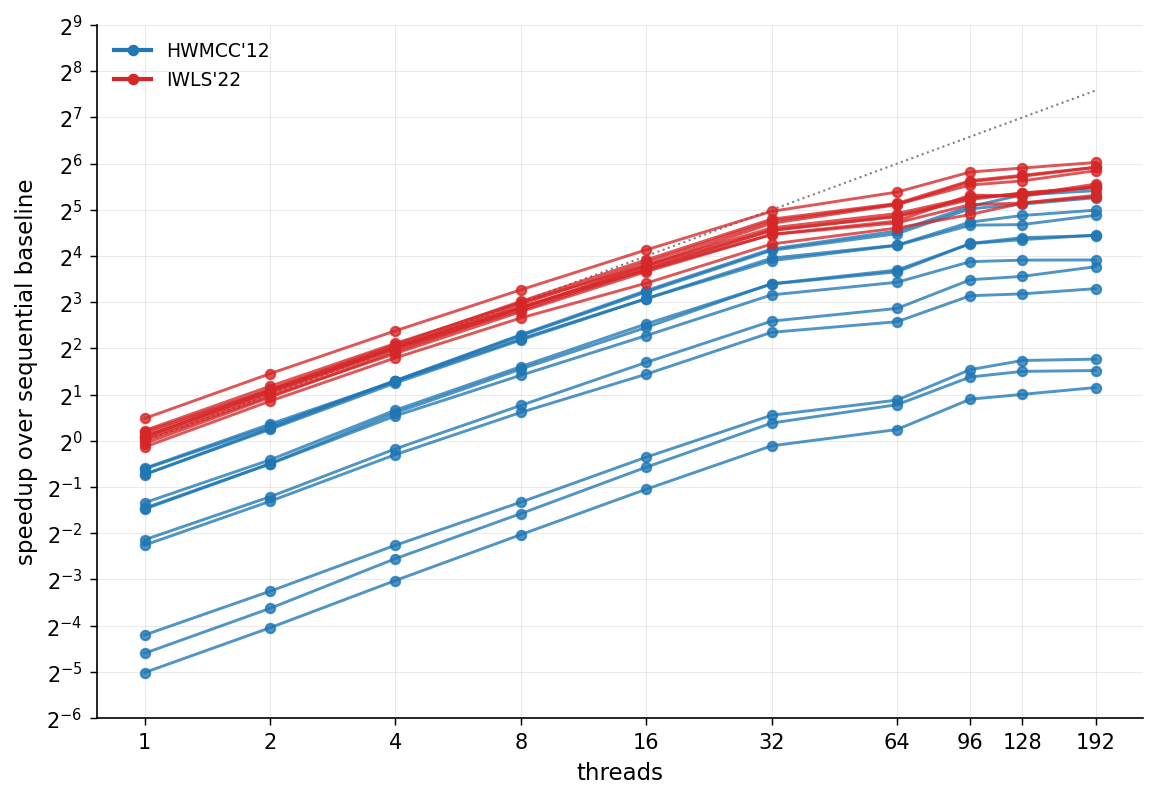
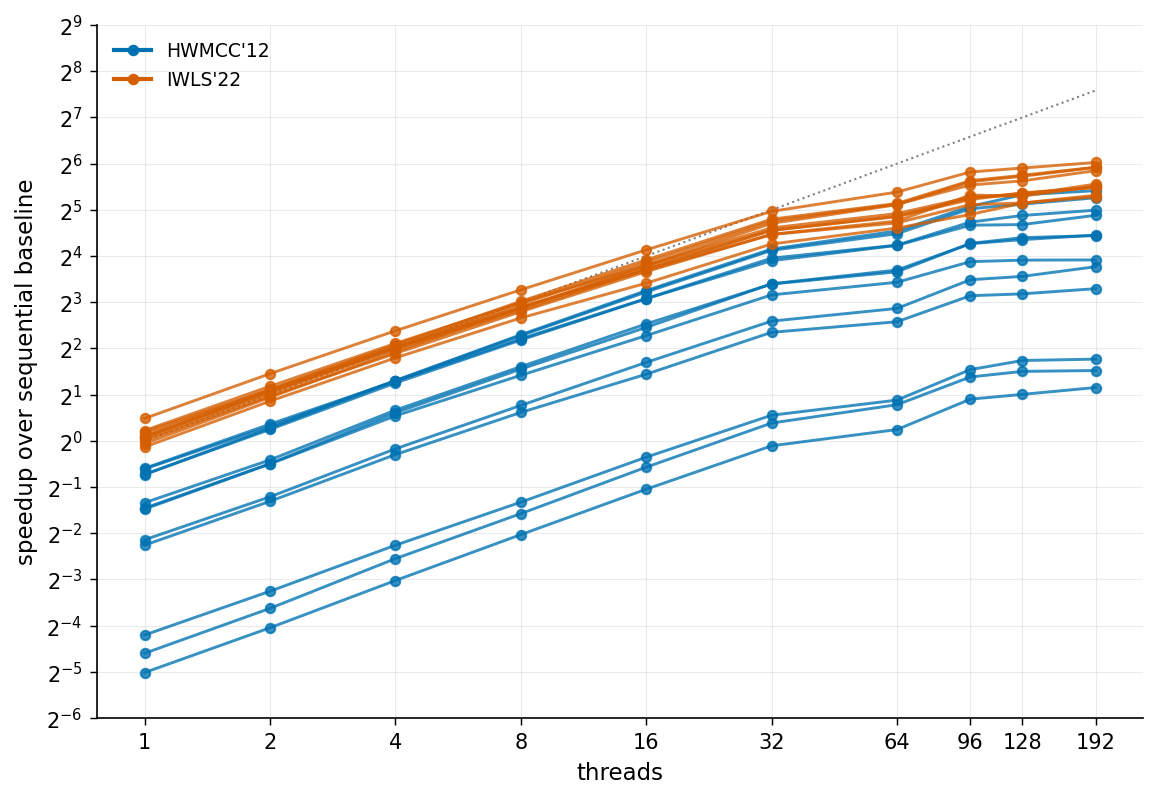
new figs

diff --git a/sections/5-evaluation.tex b/sections/5-evaluation.tex
@@ -358,7 +358,7 @@ paper~\cite{clausal-cc}.
 
 \begin{figure}[H]
   \centering
-  \includegraphics[width=\linewidth]{figs_old/gates_speedup_vs_min_dirty_fraction.png}
+  \includegraphics[width=\linewidth]{figs/gates_async_speedup_vs_dirty_fraction.png}
   \caption{Speedup of \filteralgo compared to sequential baseline vs. smallest dirty fraction 
   across rounds. The dirty fraction of a round is the number of dirty terms in that round divided 
   by the total number of equivalence classes in that round. We observe that benchmarks with a smaller 
